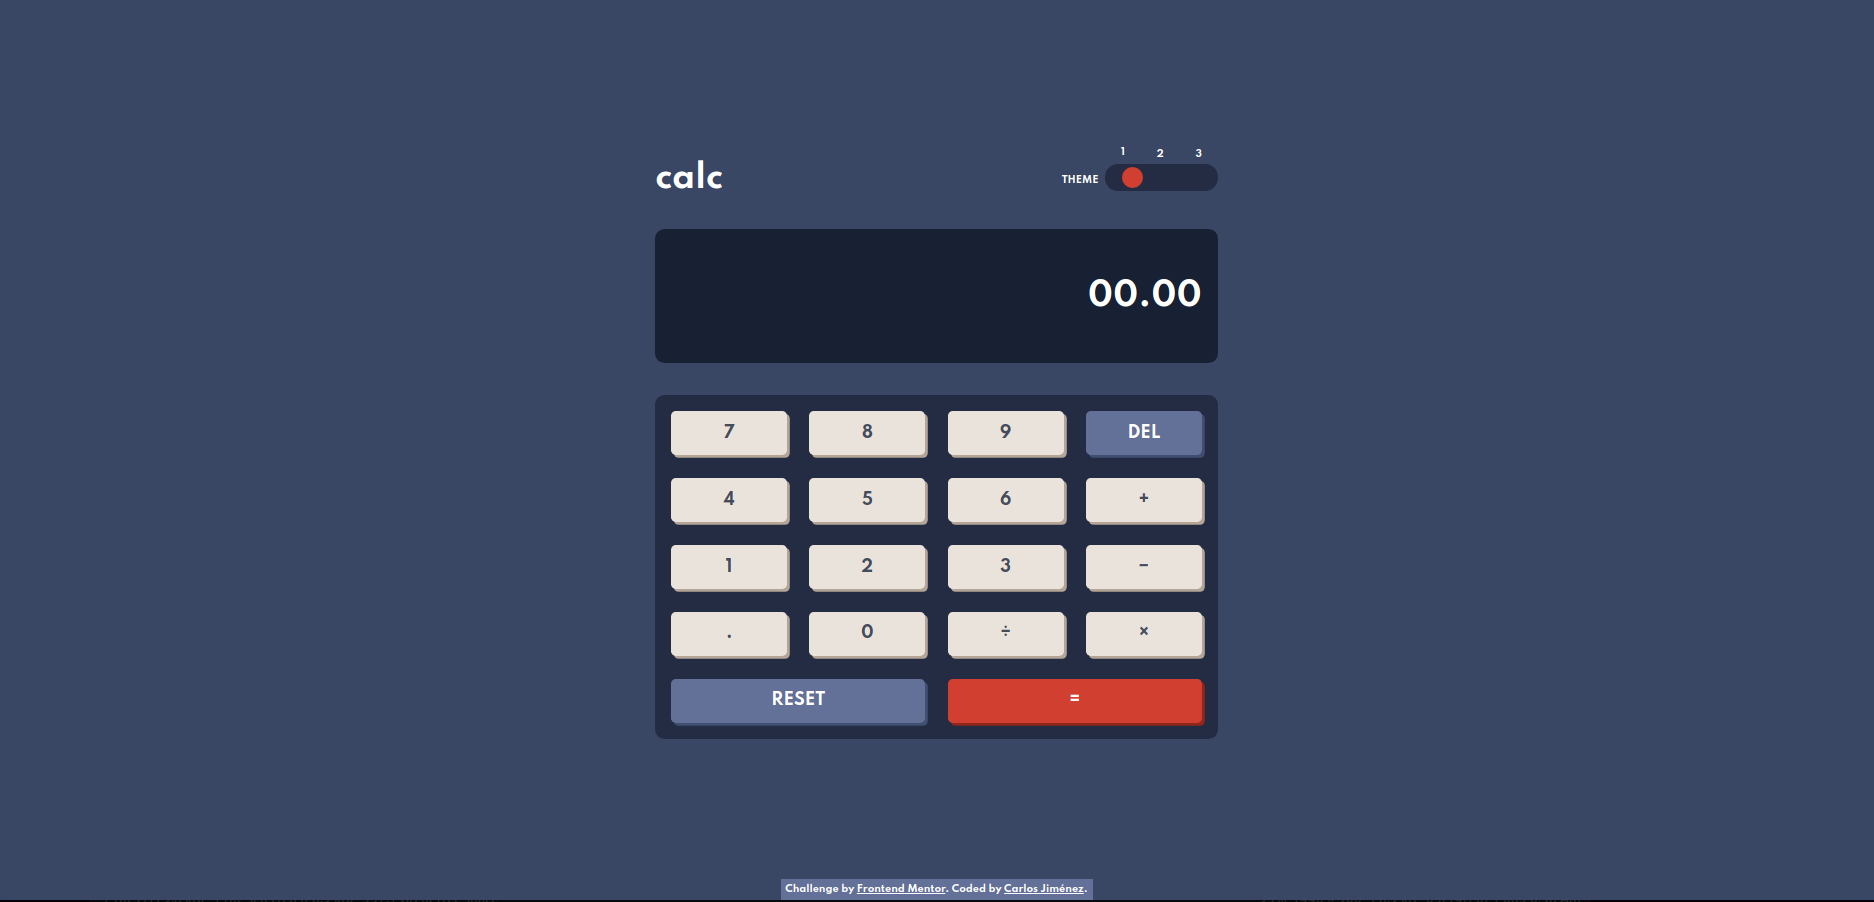
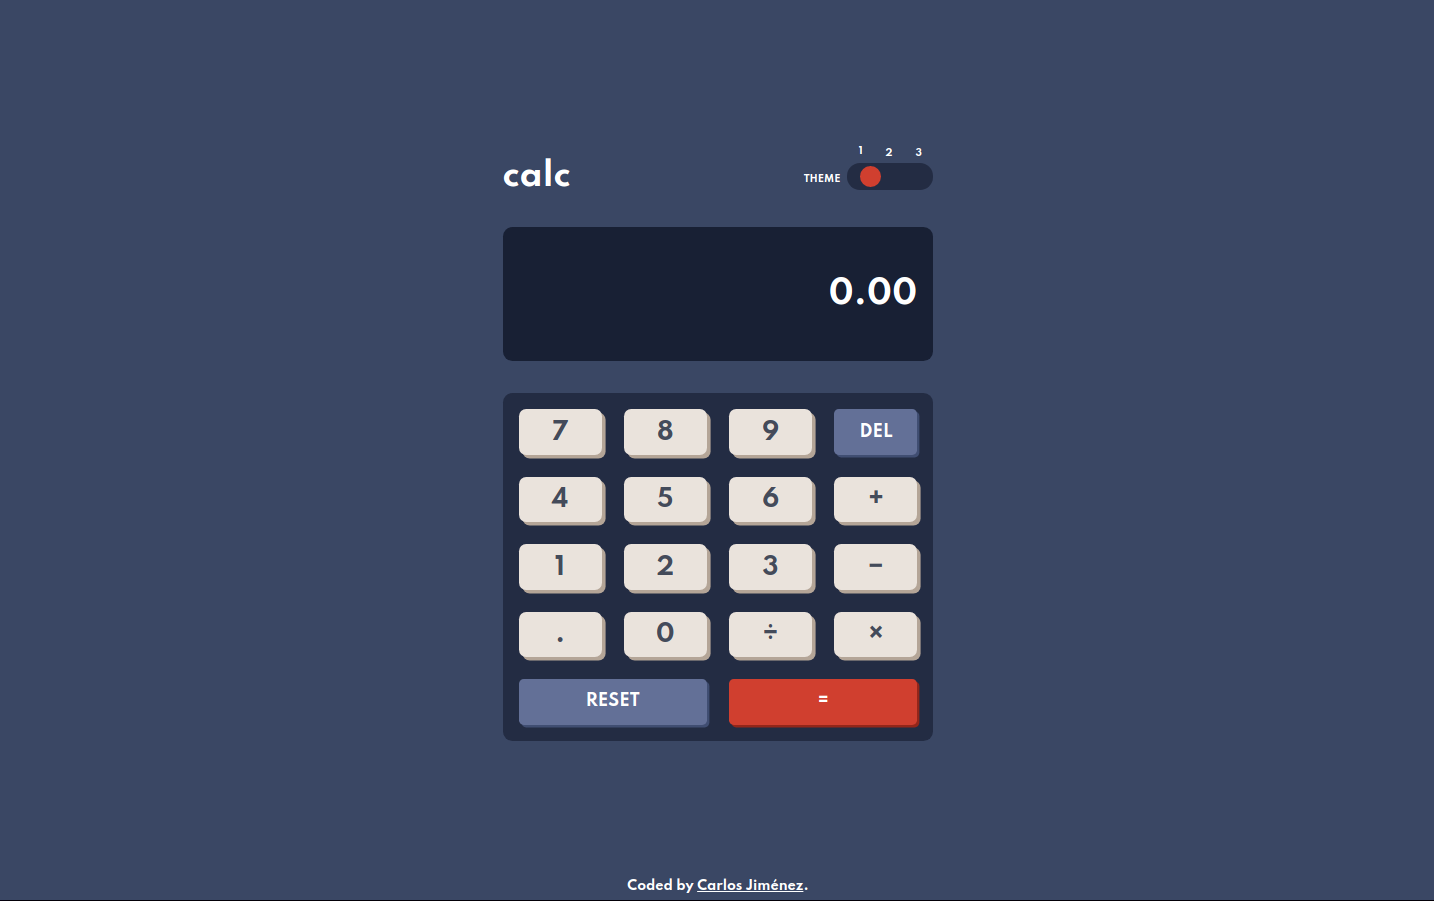
PWA

diff --git a/index.html b/index.html
@@ -1,21 +1,22 @@
 <!DOCTYPE html>
-<html role="doc-index" lang="en">
+<html role="application" lang="en">
   <head>
     <meta charset="UTF-8" />
     <meta name="viewport" content="width=device-width, initial-scale=1.0" />
-    <!-- displays site properly based on user's device -->
-
-    <link
-      rel="icon"
-      type="image/png"
-      sizes="32x32"
-      href="./images/favicon-32x32.png"
-    />
+    <link rel="icon" type="image/png" sizes="32x32" href="./images/icon.png" />
+    <link rel="manifest" href="manifest.json" />
     <link rel="stylesheet" href="./css/style.css" />
 
     <title>Calculator app | Frontend Mentor</title>
+
+    <script>
+      // service worker supported by browser
+      if ("serviceWorker" in navigator) {
+        navigator.serviceWorker.register("sw.js");
+      }
+    </script>
   </head>
-  <body role="doc-cover" class="flex bg-main flex-ai-c flex-jc-c th1">
+  <body role="main" class="flex bg-main flex-ai-c flex-jc-c">
     <div class="calc flex flex-fd-c flex-ai-c">
       <div class="header flex flex-ai-c flex-jc-sb">
         <h1>calc</h1>

diff --git a/js/app.js b/js/app.js
@@ -4,17 +4,25 @@ const themeSwitchContainer = document.querySelector(".calc .header .th-switch");
 const keyBoardBtns = document.querySelectorAll(".calc .keyboard span");
 const outputScreen = document.querySelector(".calc .screen span");
 let input = "";
+let ls = window.localStorage;
+
+// get and set last used theme
+window.onload = () => {
+  const theme = ls.getItem("theme");
+  const themeRx = /^th+[1-3]$/;
+  themeRx.test(theme) ? toggleTheme(theme) : toggleTheme("th1");
+};
 
 const getCurrTheme = () => {
   if (body.classList.contains("th1")) return "th1";
   if (body.classList.contains("th2")) return "th2";
-  return "th3";
+  if (body.classList.contains("th3")) return "th3";
 };
 
 const getNextTh = (currentTh) => {
   if (currentTh === "th1") return "th2";
   if (currentTh === "th2") return "th3";
-  return "th1";
+  if (currentTh === "th3") return "th1";
 };
 
 const toggleTheme = (newTh, currentTh) => {
@@ -27,6 +35,8 @@ const toggleTheme = (newTh, currentTh) => {
       body.classList.add(newTh);
     }
   }
+
+  ls.setItem("theme", newTh);
 };
 
 const nextTh = () => {

diff --git a/sw.js b/sw.js
@@ -1,0 +1,17 @@
+self.addEventListener("install", (event) => {
+  event.waitUntil(
+    caches.open("sw-cache").then((cache) => {
+      cache.add("./css/style.css");
+      cache.add("./css/app.js");
+      return cache.add("index.html");
+    })
+  );
+});
+
+self.addEventListener("fetch", (event) => {
+  event.respondWith(
+    caches.match(event.request).then((res) => {
+      return res || fetch(event.request);
+    })
+  );
+});

diff --git a/css/calc.css b/css/calc.css
@@ -4,19 +4,8 @@
 
 .calc {
   min-width: 30vw;
-  width: 27vw;
+  width: 90vw;
+  max-width: 31.25rem;
   margin: 1em 0;
   position: relative;
-}
-
-@media (max-width: 1180px) {
-  .calc {
-    width: 50vw;
-  }
-}
-
-@media (max-width: 600px) {
-  .calc {
-    width: 90vw;
-  }
 }

diff --git a/css/scrollbar.css b/css/scrollbar.css
@@ -10,11 +10,6 @@
 
 /* Handle */
 ::-webkit-scrollbar-thumb {
-  background: var(--bg-sec);
-  border-radius: 0.625em;
-}
-
-/* Handle on hover */
-::-webkit-scrollbar-thumb:hover {
   background: var(--key-bg-sec);
+  border-radius: 0.625em;
 }

diff --git a/README.md b/README.md
@@ -23,7 +23,8 @@ Users should be able to:
 - See the size of the elements adjust based on their device's screen size
 - Perform mathmatical operations like addition, subtraction, multiplication, and division
 - Adjust the color theme based on their preference
-- **Bonus**: Have their initial theme preference checked using `prefers-color-scheme` and have any additional changes saved in the browser
+- Type
+- Last used theme will be keeped on reload
 
 ### Screenshot
 
@@ -33,8 +34,8 @@ Users should be able to:
 
 ### Links
 
-- Solution URL: [Add solution URL here](https://github.com/Dghost32/calculator)
-- Live Site URL: [Add live site URL here](https://calculator-cj.netlify.app)
+- Solution URL: [https://github.com/Dghost32/calculator](https://github.com/Dghost32/calculator)
+- Live Site URL: [https://calculator-cj.netlify.app](https://calculator-cj.netlify.app)
 ### Built with
 
 - Semantic HTML5 markup
